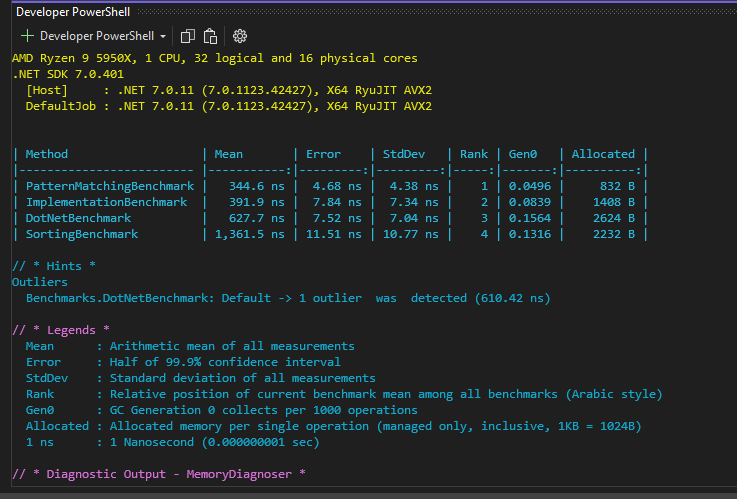
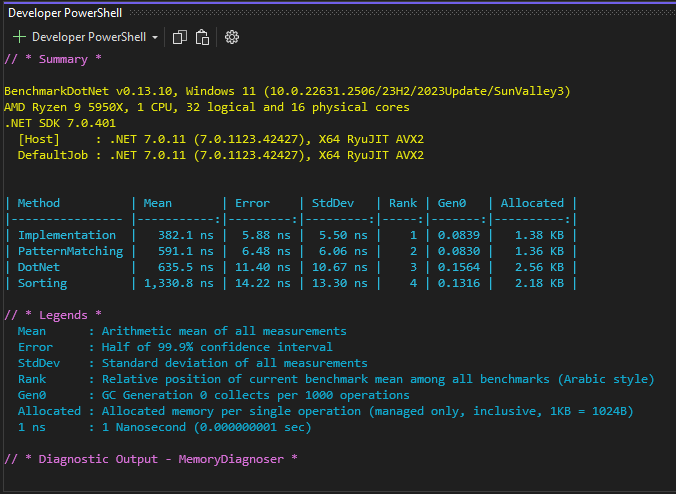
updated docs

Changed region(s): [[0.0, 0.0, 1.0, 1.0]]

diff --git a/IteratorImplementation/Example.cs b/IteratorImplementation/Example.cs
@@ -5,10 +5,13 @@ public class Example
 {
     protected record Movie(string Title, IIterator<string> Stars, uint Year);
 
-    protected static Movie whiteNoise = new Movie("White Noise", new Iterator<string>(Array.Empty<string>()), 2023);
-    protected static Movie dumbWaiter = new Movie("The Dumb Waiter", new Iterator<string>(new[] { "Geraldine Jones" }), 1979);
-    protected static Movie eraserHead = new Movie("Eraser Head", new Iterator<string>(new[] { "Jack Nance", "Charlotte Stewart", "Allen Joseph" }), 1977);
-    protected static Movie piTheMovie = new Movie("Pi", new Iterator<string>(new[] { "Sean Gullette", "Mark Margolis", "Ben Shenkman" }), 1998);
+    protected static Movie whiteNoise = new("White Noise", new Iterator<string>(Array.Empty<string>()), 2023);
+    protected static Movie dumbWaiter = new("The Dumb Waiter", new Iterator<string>(new[] { "Geraldine Jones" }), 1979);
+    protected static Movie eraserHead = new("Eraser Head", new Iterator<string>(new[] { "Jack Nance", "Charlotte Stewart", "Allen Joseph" }), 1977);
+    protected static Movie piTheMovie = new("Pi", new Iterator<string>(new[] { "Sean Gullette", "Mark Margolis", "Ben Shenkman" }), 1998);
+    protected static Movie dumbWaiter1 = new("The Dumb Waiter", new Iterator<string>(new[] { "Geraldine Jones", "John White" }), 1979);
+    protected static Movie dumbWaiter2 = new("The Dumb Waiter", new Iterator<string>(new[] { "Bobby Dunn", "Eddie Lyons" }), 1924);
+    protected static Movie dumbWaiter3 = new("The Dumb Waiter", new Iterator<string>(new[] { "Boris Komnenic", "Dragon Petrovic-Pele" }), 1999);
 
 
     protected static string FormatMovie(Movie movie)
@@ -28,7 +31,7 @@ public class Example
             star = stars.Current;
         }
 
-        return formatted.Append(", and ").Append(star).ToString();
+        return formatted.Append(" and ").Append(star).ToString();
     }
 
     public static void Run()
@@ -39,5 +42,8 @@ public class Example
         Console.WriteLine(FormatMovie(dumbWaiter));
         Console.WriteLine(FormatMovie(eraserHead));
         Console.WriteLine(FormatMovie(piTheMovie));
+        Console.WriteLine(FormatMovie(dumbWaiter1));
+        Console.WriteLine(FormatMovie(dumbWaiter2));
+        Console.WriteLine(FormatMovie(dumbWaiter3));
     }
 }

diff --git a/DotNetIterator/Example.cs b/DotNetIterator/Example.cs
@@ -6,10 +6,13 @@ public class Example
 {
     protected record Movie(string Title, IEnumerable<string> Stars, uint Year);
     
-    protected static Movie whiteNoise = new Movie("White Noise", Enumerable.Empty<string>(), 2023);
-    protected static Movie dumbWaiter = new Movie("The Dumb Waiter", new[] { "Geraldine Jones" }, 1979);
-    protected static Movie eraserHead = new Movie("Eraser Head", new[] { "Jack Nance", "Charlotte Stewart", "Allen Joseph" }, 1977);
-    protected static Movie piTheMovie = new Movie("Pi", new[] { "Sean Gullette", "Mark Margolis", "Ben Shenkman" }, 1998);
+    protected static Movie whiteNoise = new("White Noise", Enumerable.Empty<string>(), 2023);
+    protected static Movie dumbWaiter = new("The Dumb Waiter", new[] { "Geraldine Jones" }, 1979);
+    protected static Movie eraserHead = new("Eraser Head", new[] { "Jack Nance", "Charlotte Stewart", "Allen Joseph" }, 1977);
+    protected static Movie piTheMovie = new("Pi", new[] { "Sean Gullette", "Mark Margolis", "Ben Shenkman" }, 1998);
+    protected static Movie dumbWaiter1 = new("The Dumb Waiter", new[] { "Geraldine Jones", "John White" }, 1979);
+    protected static Movie dumbWaiter2 = new("The Dumb Waiter", new[] { "Bobby Dunn", "Eddie Lyons" }, 1924);
+    protected static Movie dumbWaiter3 = new("The Dumb Waiter", new[] { "Boris Komnenic", "Dragon Petrovic-Pele" }, 1999);
 
 
     protected static string FormatMovie(Movie movie)
@@ -29,7 +32,7 @@ public class Example
             currentStar = star.Current;
         }
 
-        return formatted.Append(", and ").Append(currentStar).ToString();
+        return formatted.Append(" and ").Append(currentStar).ToString();
     }
 
     public static void Run()
@@ -39,5 +42,8 @@ public class Example
         Console.WriteLine(FormatMovie(dumbWaiter));
         Console.WriteLine(FormatMovie(eraserHead));
         Console.WriteLine(FormatMovie(piTheMovie));
+        Console.WriteLine(FormatMovie(dumbWaiter1));
+        Console.WriteLine(FormatMovie(dumbWaiter2));
+        Console.WriteLine(FormatMovie(dumbWaiter3));
     }
 }

diff --git a/Sorting/Example.cs b/Sorting/Example.cs
@@ -4,15 +4,15 @@ public class Example
 {
     protected record Movie(string Title, string[] Stars, uint Year);
 
-    protected static IEnumerable<Movie> movies = new[] 
+    protected static IEnumerable<Movie> movies = new Movie[] 
     {
-        new Movie("White Noise", Array.Empty<string>(), 2023),
-        new Movie("The Dumb Waiter", new[] { "Geraldine Jones" }, 1979),
-        new Movie("Eraser Head", new[] { "Jack Nance", "Charlotte Stewart", "Allen Joseph" }, 1977),
-        new Movie("Pi", new[] { "Sean Gullette", "Mark Margolis", "Ben Shenkman" }, 1998),
-        new Movie("The Dumb Waiter", new[] { "Boris Komnenic", "Dragon Petrovic-Pele" }, 1999),
-        new Movie("The Dumb Waiter", new[] { "Geraldine Jones", "John White" }, 1979),
-        new Movie("The Dumb Waiter", new[] { "Bobby Dunn", "Eddie Lyons" }, 1924),
+        new("White Noise", Array.Empty<string>(), 2023),
+        new("The Dumb Waiter", new[] { "Geraldine Jones" }, 1979),
+        new("Eraser Head", new[] { "Jack Nance", "Charlotte Stewart", "Allen Joseph" }, 1977),
+        new("Pi", new[] { "Sean Gullette", "Mark Margolis", "Ben Shenkman" }, 1998),
+        new("The Dumb Waiter", new[] { "Geraldine Jones", "John White" }, 1979),
+        new("The Dumb Waiter", new[] { "Bobby Dunn", "Eddie Lyons" }, 1924),
+        new("The Dumb Waiter", new[] { "Boris Komnenic", "Dragon Petrovic-Pele" }, 1999),
     };
 
     protected static string FormatMovie(Movie movie) => movie.Stars switch                                

diff --git a/PatternMatching/Example.cs b/PatternMatching/Example.cs
@@ -4,12 +4,15 @@ public class Example
 {
     protected record Movie(string Title, string[] Stars, uint Year);
 
-    protected static IEnumerable<Movie> movies = new[]
+    protected static IEnumerable<Movie> movies = new Movie[]
     {
-        new Movie("White Noise", Array.Empty<string>(), 2023),
-        new Movie("The Dumb Waiter", new[] { "Geraldine Jones" }, 1979),
-        new Movie("Eraser Head", new[] { "Jack Nance", "Charlotte Stewart", "Allen Joseph" }, 1977),
-        new Movie("Pi", new[] { "Sean Gullette", "Mark Margolis", "Ben Shenkman" }, 1998),
+        new("White Noise", Array.Empty<string>(), 2023),
+        new("The Dumb Waiter", new[] { "Geraldine Jones" }, 1979),
+        new("Eraser Head", new[] { "Jack Nance", "Charlotte Stewart", "Allen Joseph" }, 1977),
+        new("Pi", new[] { "Sean Gullette", "Mark Margolis", "Ben Shenkman" }, 1998),
+        new("The Dumb Waiter", new[] { "Geraldine Jones", "John White" }, 1979),
+        new("The Dumb Waiter", new[] { "Bobby Dunn", "Eddie Lyons" }, 1924),
+        new("The Dumb Waiter", new[] { "Boris Komnenic", "Dragon Petrovic-Pele" }, 1999),
     };
 
     protected static string FormatMovie(Movie movie) => movie.Stars switch

diff --git a/Benchmarks/Benchmarks.cs b/Benchmarks/Benchmarks.cs
@@ -1,6 +1,6 @@
 namespace gsdc.examples.design_patterns.benchmarks;
 
-internal class DotNet : dotnet_iterator.Example
+internal class DotNetBenchmark : dotnet_iterator.Example
 {
     public static void RunBenchmark()
     {
@@ -11,7 +11,7 @@ internal class DotNet : dotnet_iterator.Example
     }
 }
 
-internal class Implementation : iterator_implementation.Example
+internal class ImplementationBenchmark : iterator_implementation.Example
 {
     public static void RunBenchmark()
     {
@@ -22,7 +22,7 @@ internal class Implementation : iterator_implementation.Example
     }
 }
 
-internal class PatternMatching : pattern_matching.Example
+internal class PatternMatchingBenchmark : pattern_matching.Example
 {
     public static void RunBenchmark()
     {
@@ -30,7 +30,7 @@ internal class PatternMatching : pattern_matching.Example
     }
 }
 
-internal class Sorting : sorting.Example
+internal class SortingBenchmark : sorting.Example
 {
     public static void RunBenchmark()
     {

diff --git a/Benchmarks/Benchmark.cs b/Benchmarks/Benchmark.cs
@@ -6,18 +6,18 @@ using gsdc.examples.design_patterns.benchmarks;
 public class Benchmark
 {
     [Benchmark]
-    public void ImplementationBenchmark() 
-        => Implementation.RunBenchmark();
+    public void Implementation() 
+        => ImplementationBenchmark.RunBenchmark();
 
     [Benchmark]
-    public void DotNetBenchmark() 
-        => DotNet.RunBenchmark();
+    public void DotNet() 
+        => DotNetBenchmark.RunBenchmark();
 
     [Benchmark]
-    public void PatternMatchingBenchmark() 
-        => PatternMatching.RunBenchmark();
+    public void PatternMatching() 
+        => PatternMatchingBenchmark.RunBenchmark();
 
     [Benchmark]
-    public void SortingBenchmark() 
-        => Sorting.RunBenchmark();
+    public void Sorting() 
+        => SortingBenchmark.RunBenchmark();
 }

diff --git a/Viewer/Program.cs b/Viewer/Program.cs
@@ -1,7 +1,7 @@
 
-if(args.Length > 0)
+if (args.Length > 0)
 {
-    foreach(var arg in args)
+    foreach (var arg in args)
     {
         switch (arg)
         {
@@ -47,4 +47,4 @@ gsdc.examples.design_patterns.iterator_implementation.Example.Run();
 gsdc.examples.design_patterns.dotnet_iterator.Example.Run();
 gsdc.examples.design_patterns.pattern_matching.Example.Run();
 gsdc.examples.design_patterns.sorting.Example.Run();
-Console.ReadKey();
+gsdc.examples.design_patterns.dependency_injection.Example.Run();

diff --git a/Benchmarks/Program.cs b/Benchmarks/Program.cs
@@ -1,4 +1,3 @@
 using BenchmarkDotNet.Running;
 
 BenchmarkRunner.Run<Benchmark>();
-Console.ReadKey();

diff --git a/Viewer/README.md b/Viewer/README.md
@@ -1,4 +1,4 @@
-[� back](../README.md#do-you-need-to-know-how-to-implement-design-patterns) | [solution](./)
+[« back](../README.md#do-you-need-to-know-how-to-implement-design-patterns) | [solution](./)
 # Examples Runner / Viewer
 
 Using this project you can run all or any individual example project. To run all do not specify and options, to run each example individually specify it as an option

diff --git a/README.md b/README.md
@@ -50,4 +50,4 @@ These are all of the example projects
 - [Dependency Injection](./DependencyInjection/README.md)
 
 And just for the fun of it, I have also put together a means of obtaining some Benchmarks detailing both speed and Heap allocated memory.
-- [Benchmarks / Debug Runner](./Benchmarks/README.md)
+- [Benchmarks](./Benchmarks/README.md)

diff --git a/Benchmarks/README.md b/Benchmarks/README.md
@@ -10,3 +10,5 @@ From the Benchmarks project directory
 > dotnet build -c Release
 
 > dotnet .\bin\Release\net7.0\Benchmarks.dll
+
+![benchamark results](../images/benchmarks.png)
